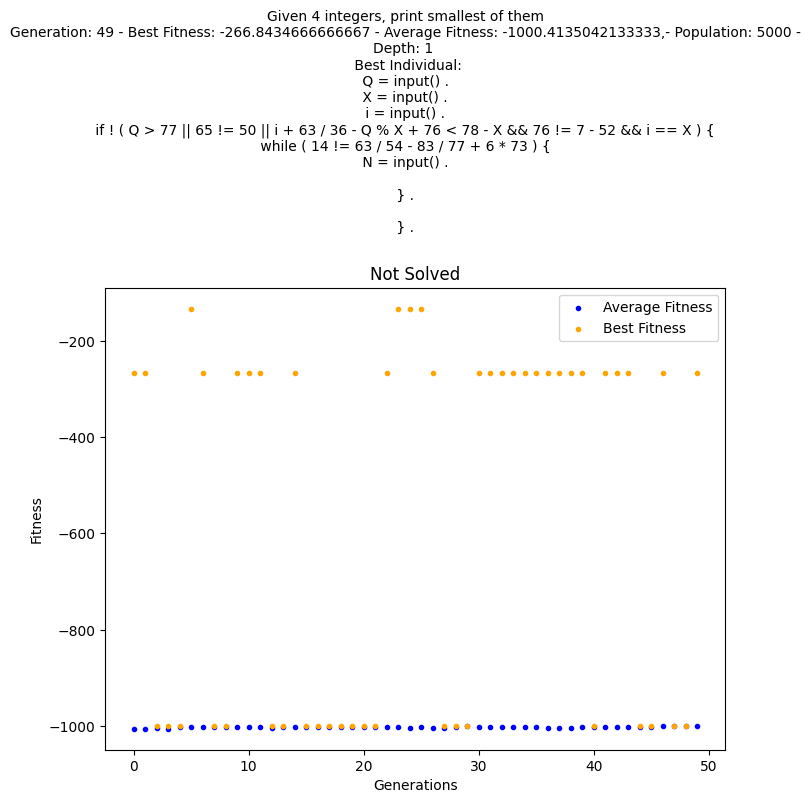
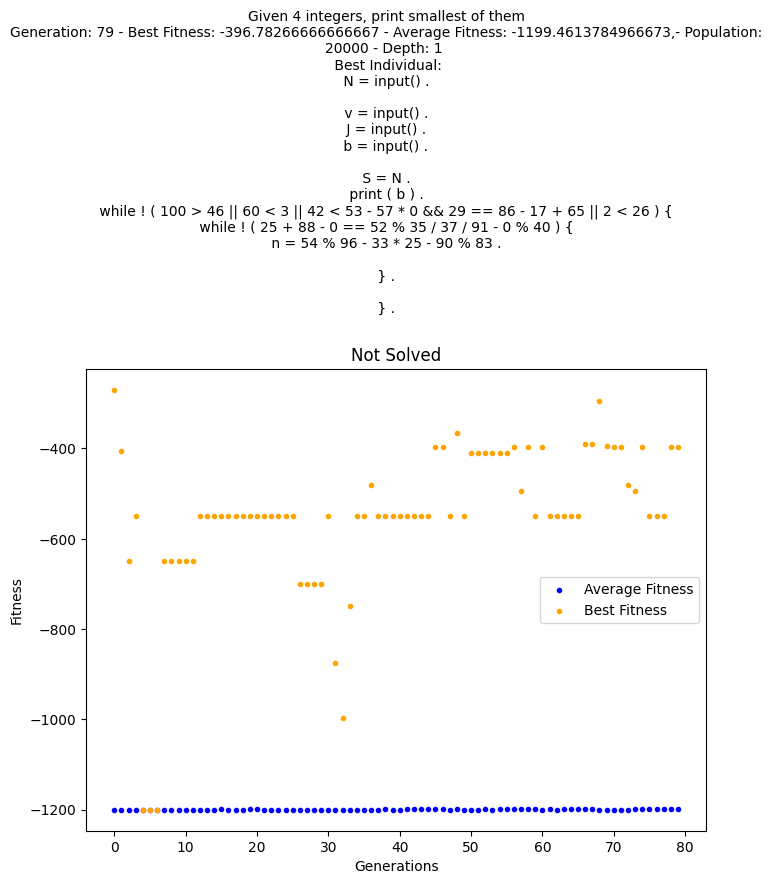
COmmit

diff --git a/testing.py b/testing.py
@@ -34,7 +34,6 @@ def fitness_function_2(program):
         tree = parser.prog()
         visitor = ExprVisitor()
         output, _ = visitor.visit(tree)
-        # print("Output: ", output)
         if 789 in output:
             return 0
         else:
@@ -54,7 +53,6 @@ def fitness_function_3(program):
         tree = parser.prog()
         visitor = ExprVisitor()
         output, _ = visitor.visit(tree)
-        # print("Output: ", output)
         if 31415 in output:
             return 0
         else:
@@ -75,7 +73,6 @@ def fitness_function_4(program):
         tree = parser.prog()
         visitor = ExprVisitor()
         output, _ = visitor.visit(tree)
-        # print("Output: ", output)
         if output[0] == 1:
             return 0
         else:
@@ -93,7 +90,6 @@ def fitness_function_5(program):
         tree = parser.prog()
         visitor = ExprVisitor()
         output, _ = visitor.visit(tree)
-        # print("Output: ", output)
         if output[0] == 789:
             return 0
         else:
@@ -132,8 +128,8 @@ def fitness_function_7(program):
     checks = 1
     inputs_count = program.count("input()")
     if inputs_count == 2:
-         value += 100
-         checks += 1
+        value += 100
+        checks += 1
     else:
         return -1000
     split_program = program.split(".")
@@ -143,7 +139,7 @@ def fitness_function_7(program):
     if any(["print" in x and "+" in x for x in split_program[1:]]):
         value += 200
         checks += 1
-    value = value/checks
+    value = value / checks
 
     try:
         lexer = ExprLexer(InputStream(program))
@@ -157,16 +153,16 @@ def fitness_function_7(program):
             # print("Output: ", output)
             if output[0] == program_input[0] + program_input[1] and num_readings == 2 and len(output) == 1:
                 print("inputs:", program_input)
-                print("Outputs: ", output )
+                print("Outputs: ", output)
                 fitness += 0
             elif len(output) == 1:
-                fitness += (value - len(program)/10000)
+                fitness += (value - len(program) / 10000)
             else:
-                fitness += 2*(value - len(program)/10000)
+                fitness += 2 * (value - len(program) / 10000)
         return fitness
     except Exception as e:
         # print(e)
-        return 8*(value - len(program)/10000)
+        return 8 * (value - len(program) / 10000)
 
 
 def fitness_function_8(program):
@@ -254,6 +250,7 @@ def fitness_function_9(program):
         # print(e)
         return 8 * (value - len(program) / 10000)
 
+
 def fitness_function_10(program):
     fitness = 0
     value = -1500
@@ -274,13 +271,14 @@ def fitness_function_10(program):
     if any([("<" in x or ">" in x) and all([v in x for v in variables]) for x in split_program[1:]]):
         value += 100
         checks += 1
-    if any([variables[0] in x and variables[1] in x and "=" in x and "while" not in x and "if" not in x for x in split_program[1:]]):
+    if any([variables[0] in x and variables[1] in x and "=" in x and "while" not in x and "if" not in x for x in
+            split_program[1:]]):
         value += 500
         checks += 1
     if any(["print" in x for x in split_program[1:]]):
         value += 100
         checks += 1
-    if any(["print" in x and (variables[0] in x or variables[1] in x )for x in split_program[1:]]):
+    if any(["print" in x and (variables[0] in x or variables[1] in x) for x in split_program[1:]]):
         value += 100
         checks += 1
     value = value / checks
@@ -291,11 +289,12 @@ def fitness_function_10(program):
         parser = ExprParser(stream)
         tree = parser.prog()
         num_readings = program.count("input()")
-        for _ in range(15):
+        for _ in range(6):
             visitor = ExprVisitor(20, 0, 9)
             output, program_input = visitor.visit(tree)
             # print("Output: ", output)
-            if output[0] == max(program_input[0], program_input[1]) and num_readings == 2 and len(output) == 1 and checks == 7:
+            if output[0] == max(program_input[0], program_input[1]) and num_readings == 2 and len(
+                    output) == 1 and checks == 7:
                 print("inputs:", program_input)
                 print("Outputs: ", output)
                 fitness += 0
@@ -314,13 +313,14 @@ def fitness_function_11(program):
     value = -2500
     checks = 1
     inputs_count = program.count("input()")
-    value += max(inputs_count*100, 1000)
+    value += max(inputs_count * 100, 1000)
     split_program = program.split(".")
     variables = [line[0] for line in split_program if "input()" in line]
     if all(["input()" in x for x in split_program[:10]]):
         value += 500
         checks += 1
-    if any(["=" in x and "+" in x and all([v in x for v in variables]) and "while" not in x and "if" not in x for x in split_program[10:]]):
+    if any(["=" in x and "+" in x and all([v in x for v in variables]) and "while" not in x and "if" not in x for x in
+            split_program[10:]]):
         value += 500
         checks += 1
     for line in split_program:
@@ -349,7 +349,7 @@ def fitness_function_11(program):
                 fitness += 2 * (value - len(program) / 10000)
         return fitness
     except Exception as e:
-        print(e)
+        # print(e)
         return 8 * (value - len(program) / 10000)
 
 
@@ -379,7 +379,7 @@ def benchmark1(program):
     if any(["print" in x and "+" in x for x in split_program[2:]]):
         value += 200
     index = 0
-    for i in range(0, len(split_program)-1):
+    for i in range(0, len(split_program) - 1):
         if "print" in split_program[i]:
             index = i
             break
@@ -406,6 +406,7 @@ def benchmark1(program):
     except Exception as e:
         return 8 * (value - len(program) / 10000)
 
+
 def benchmark2(program):
     try:
         lexer = ExprLexer(InputStream(program))
@@ -421,7 +422,7 @@ def benchmark2(program):
             num_reading = program.count("input()")
             proper_value = 0
             for i in range(1, inputs[0] + 1):
-                proper_value += i**2
+                proper_value += i ** 2
 
             if num_reading == 1 and proper_value in output:
                 print("Inputs: ", inputs)
@@ -441,33 +442,48 @@ def benchmark3(program):
     fitness = 0
     value = -1000
     checks = 1
-    inputs_count = program.count("input()")
     ands_count = program.count("&&")
     less_than_count = program.count("<")
-    print_count = program.count("print")
-    if inputs_count == 4:
-        value += 400
+
+    split_program = program.split(".")
+
+    if "input()" in split_program[0] and "input()" in split_program[1] \
+            and "input()" in split_program[2] and "input()" in split_program[3]:
+        value += 200
         checks += 1
     else:
-        return -1000
-    # if ands_count == 3:
-    #     value += 100
-    #     checks += 1
-    # else:
-    #     return -1000
-    # if less_than_count == 3:
-    #     value += 100
-    #     checks += 1
-    # else:
-    #     return -1000
-    #
-    # if print_count < 1:
-    #     return -1000
-    split_program = program.split(".")
-    if "input()" in split_program[0] and "input()" in split_program[1] \
-        and "input()" in split_program[2] and "input()" in split_program[3]:
-            value += 500
-            checks += 1
+        return -1200
+    if any(["if" in x and ("<" in x or ">" in x) and (x.count("<") == 3 or x.count(">") == 3) for x in
+            split_program[4:6]]):
+        value += 100
+        checks += 1
+
+    if any(["print" in x for x in split_program[4:7]]):
+        value += 100
+        checks += 1
+
+    if ands_count == 3:
+        value += 50
+        checks += 1
+
+    if less_than_count == 3:
+        value += 50
+        checks += 1
+    if len(split_program) < 12:
+        value += 50
+        checks += 1
+
+    for x in split_program[4:7]:
+        if "if" in x and ("<" in x or ">" in x):
+            for index, character in enumerate(x):
+                if character == "<" or character == ">":
+                    try:
+                        int(x[index - 2])
+                        value -= 200
+                    except:
+                        value += 33
+                        checks += 1
+
 
     value = value / checks
 
@@ -480,6 +496,9 @@ def benchmark3(program):
         for _ in range(4):
             visitor = ExprVisitor(20, -9, 9)
             output, program_input = visitor.visit(tree)
+            if len(program_input) == 4:
+                value += 50/(checks + 1)
+
             # print("Output: ", output)
             if output[0] == min(program_input) and num_readings == 4 and len(output) == 4:
                 print("inputs:", program_input)
@@ -538,36 +557,36 @@ if __name__ == '__main__':
     #                         "Poza liczbą 789 może też zwrócić inne liczby.", "1.1.E")
     # test(fitness_function_6, "Program powinien wygenerować na wyjściu liczbę jako jedyną liczbę 1. "
     #                         "Poza liczbą 1 NIE powinien nic więcej wygenerować.", "1.1.F")
-    #test(fitness_function_7, "Program powinien odczytać dwie pierwsze liczy z wejścia i zwrócić na wyjściu "
+    # test(fitness_function_7, "Program powinien odczytać dwie pierwsze liczy z wejścia i zwrócić na wyjściu "
     #                        "(jedynie) ich sumę. Na wejściu mogą być tylko całkowite liczby dodatnie w zakresie [0,9]",
     #    "1.2.A")
-    #test(fitness_function_7, "Program powinien odczytać dwie pierwsze liczy z wejścia i zwrócić na wyjściu "
+    # test(fitness_function_7, "Program powinien odczytać dwie pierwsze liczy z wejścia i zwrócić na wyjściu "
     #                        "(jedynie) ich sumę. Na wejściu mogą być tylko całkowite liczby w zakresie [-9,9]", "1.2.B")
-    #test(fitness_function_7, "Program powinien odczytać dwie pierwsze liczy z wejścia i zwrócić na wyjściu "
+    # test(fitness_function_7, "Program powinien odczytać dwie pierwsze liczy z wejścia i zwrócić na wyjściu "
     #                         "(jedynie) ich sumę. Na wejściu mogą być tylko całkowite liczby w zakresie [-9999,9999]",
     #     "1.2.C")
-    #test(fitness_function_8, "Program powinien odczytać dwie pierwsze liczy z wejścia i zwrócić na wyjściu "
+    # test(fitness_function_8, "Program powinien odczytać dwie pierwsze liczy z wejścia i zwrócić na wyjściu "
     #                        "(jedynie) ich różnicę. Na wejściu mogą być tylko całkowite liczby dodatnie w zakresie [-9999,9999]",
     #    "1.2.D")
-    #test(fitness_function_9, "Program powinien odczytać dwie pierwsze liczy z wejścia i zwrócić na wyjściu "
+    # test(fitness_function_9, "Program powinien odczytać dwie pierwsze liczy z wejścia i zwrócić na wyjściu "
     #                         "(jedynie) ich iloczyn. Na wejściu mogą być tylko całkowite liczby dodatnie w zakresie [-9999,9999]",
     #     "1.2.E")
     # test(fitness_function_10, "Program powinien odczytać dwie pierwsze liczy z wejścia i zwrócić na wyjściu (jedynie)"
     #                          " większą z nich. Na wejściu mogą być tylko całkowite liczby dodatnie w zakresie [0,9]",
     #      "1.3.A")
-    #test(fitness_function_10, "Program powinien odczytać dwie pierwsze liczy z wejścia i zwrócić na wyjściu (jedynie)"
+    # test(fitness_function_10, "Program powinien odczytać dwie pierwsze liczy z wejścia i zwrócić na wyjściu (jedynie)"
     #                          " większą z nich. Na wejściu mogą być tylko całkowite liczby w zakresie [-9999,9999]",
     #     "1.3.B")
-    #test(fitness_function_11, "Program powinien odczytać dziesięć pierwszych liczy z wejścia i zwrócić na wyjściu ("
-    #                          "jedynie) ich średnią arytmetyczną (zaokrągloną do pełnej liczby całkowitej). Na "
-    #                          "wejściu mogą być tylko całkowite liczby w zakresie [-99,99]",
-    #     "1.4.A")
+    test(fitness_function_11, "Program powinien odczytać dziesięć pierwszych liczy z wejścia i zwrócić na wyjściu ("
+                             "jedynie) ich średnią arytmetyczną (zaokrągloną do pełnej liczby całkowitej). Na "
+                             "wejściu mogą być tylko całkowite liczby w zakresie [-99,99]",
+        "1.4.A")
     # test(fitness_function_7, "Given an integer and a float, print their sum", "B.1")
-    test(benchmark3, "Given 4 integers, print smallest of them", "28_C.3")
-    #test(benchmark2, "Given the integer n, return the sum of squaring each integer in range[1, n]", "B.3_17")
+    # test(benchmark3, "Given 4 integers, print smallest of them", "28_C.3")
+    # test(benchmark2, "Given the integer n, return the sum of squaring each integer in range[1, n]", "B.3_17")
     # test(benchmark3, "Given the integer n, return the vector of squaring each integer in range[1, n]", "B.O_1")
 
-    #print(fitness_function_11("A = input(). \n B = input(). \n C = input(). \n P = input(). \n D = input(). \n F = "
+    # print(fitness_function_11("A = input(). \n B = input(). \n C = input(). \n P = input(). \n D = input(). \n F = "
     #                          "input(). \n G = input(). \n Z = input() .\n J = input(). \n I = input(). \n a = A + B + "
     #                          "C + D + F + G + Z + P + J + I. \n print(a). \n"))
     pass

diff --git a/gp/BiggerGP.py b/gp/BiggerGP.py
@@ -12,12 +12,12 @@ from gen.ExprVisitor import ExprVisitor
 class BiggerGP:
     """ Class executing genetic algorithm using simple custom programming language"""
 
-    def __init__(self, p_size: int = 5000, depth: int = 1, length: int = 6):
+    def __init__(self, p_size: int = 1000, depth: int = 1, length: int = 13):
         self.MAX_LEN: int = length
-        self.MAX_LOGIC_LEN: int = 3
+        self.MAX_LOGIC_LEN: int = 4
         self.POP_SIZE: int = p_size
         self.DEPTH: int = depth
-        self.GENERATIONS: int = 50
+        self.GENERATIONS: int = 80
         self.MATCH_SIZE: int = 2
         self.MUTATION_RATE: int = 10
 

diff --git a/gen/ExprVisitor.py b/gen/ExprVisitor.py
@@ -131,8 +131,8 @@ class ExprVisitor(ParseTreeVisitor):
             values, outputs = self.visitLiterals(ctx.literals(), [], [])
             value = self.get_value(values, outputs)
         else:
-            value = random.randint(self.min_range, self.max_range) if self.index % 2 == 0 \
-                    else round(random.uniform(self.min_range, self.max_range), 2)
+            value = random.randint(self.min_range, self.max_range) # if self.index % 2 == 0 \
+                    # else round(random.uniform(self.min_range, self.max_range), 2)
             self.inputs.append(value)
             self.index += 1
 
